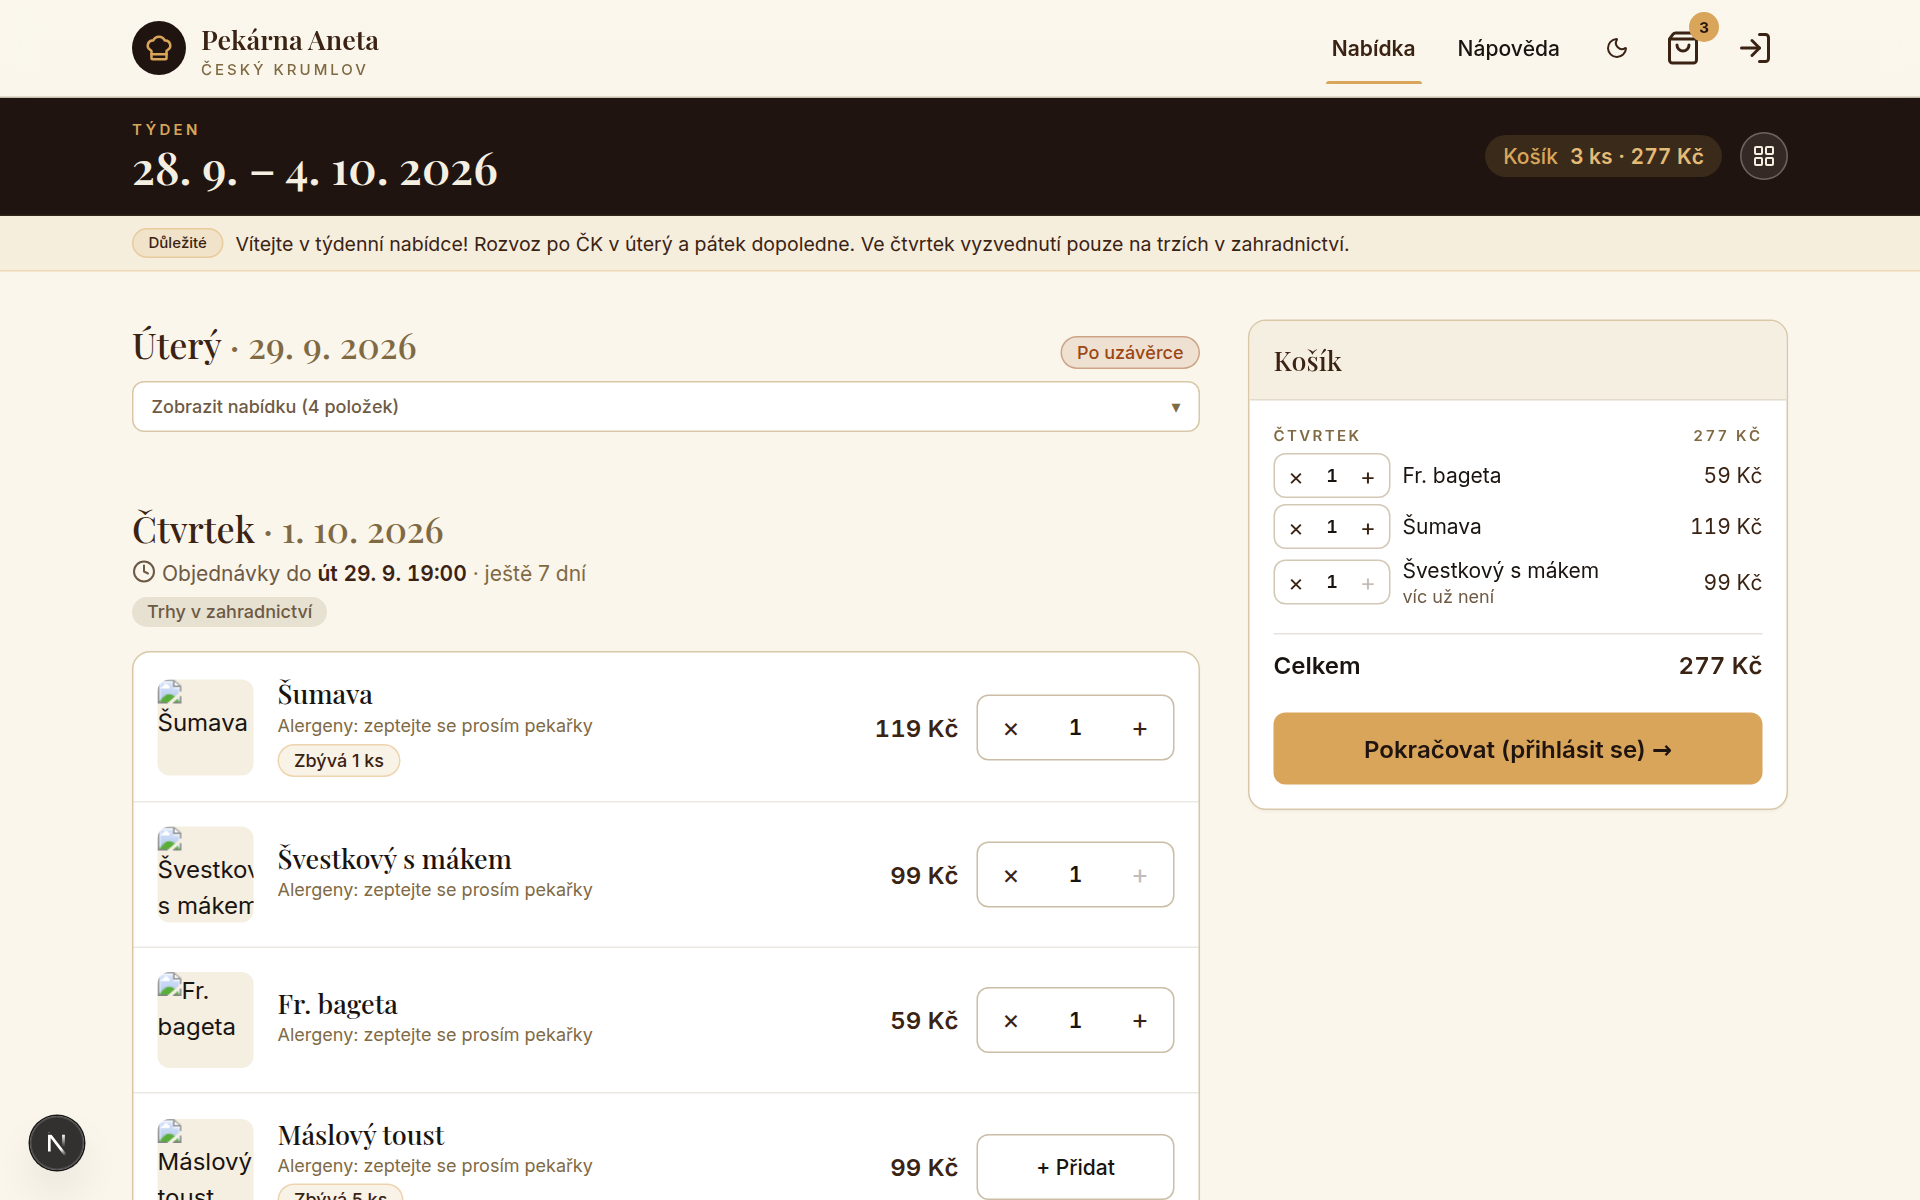
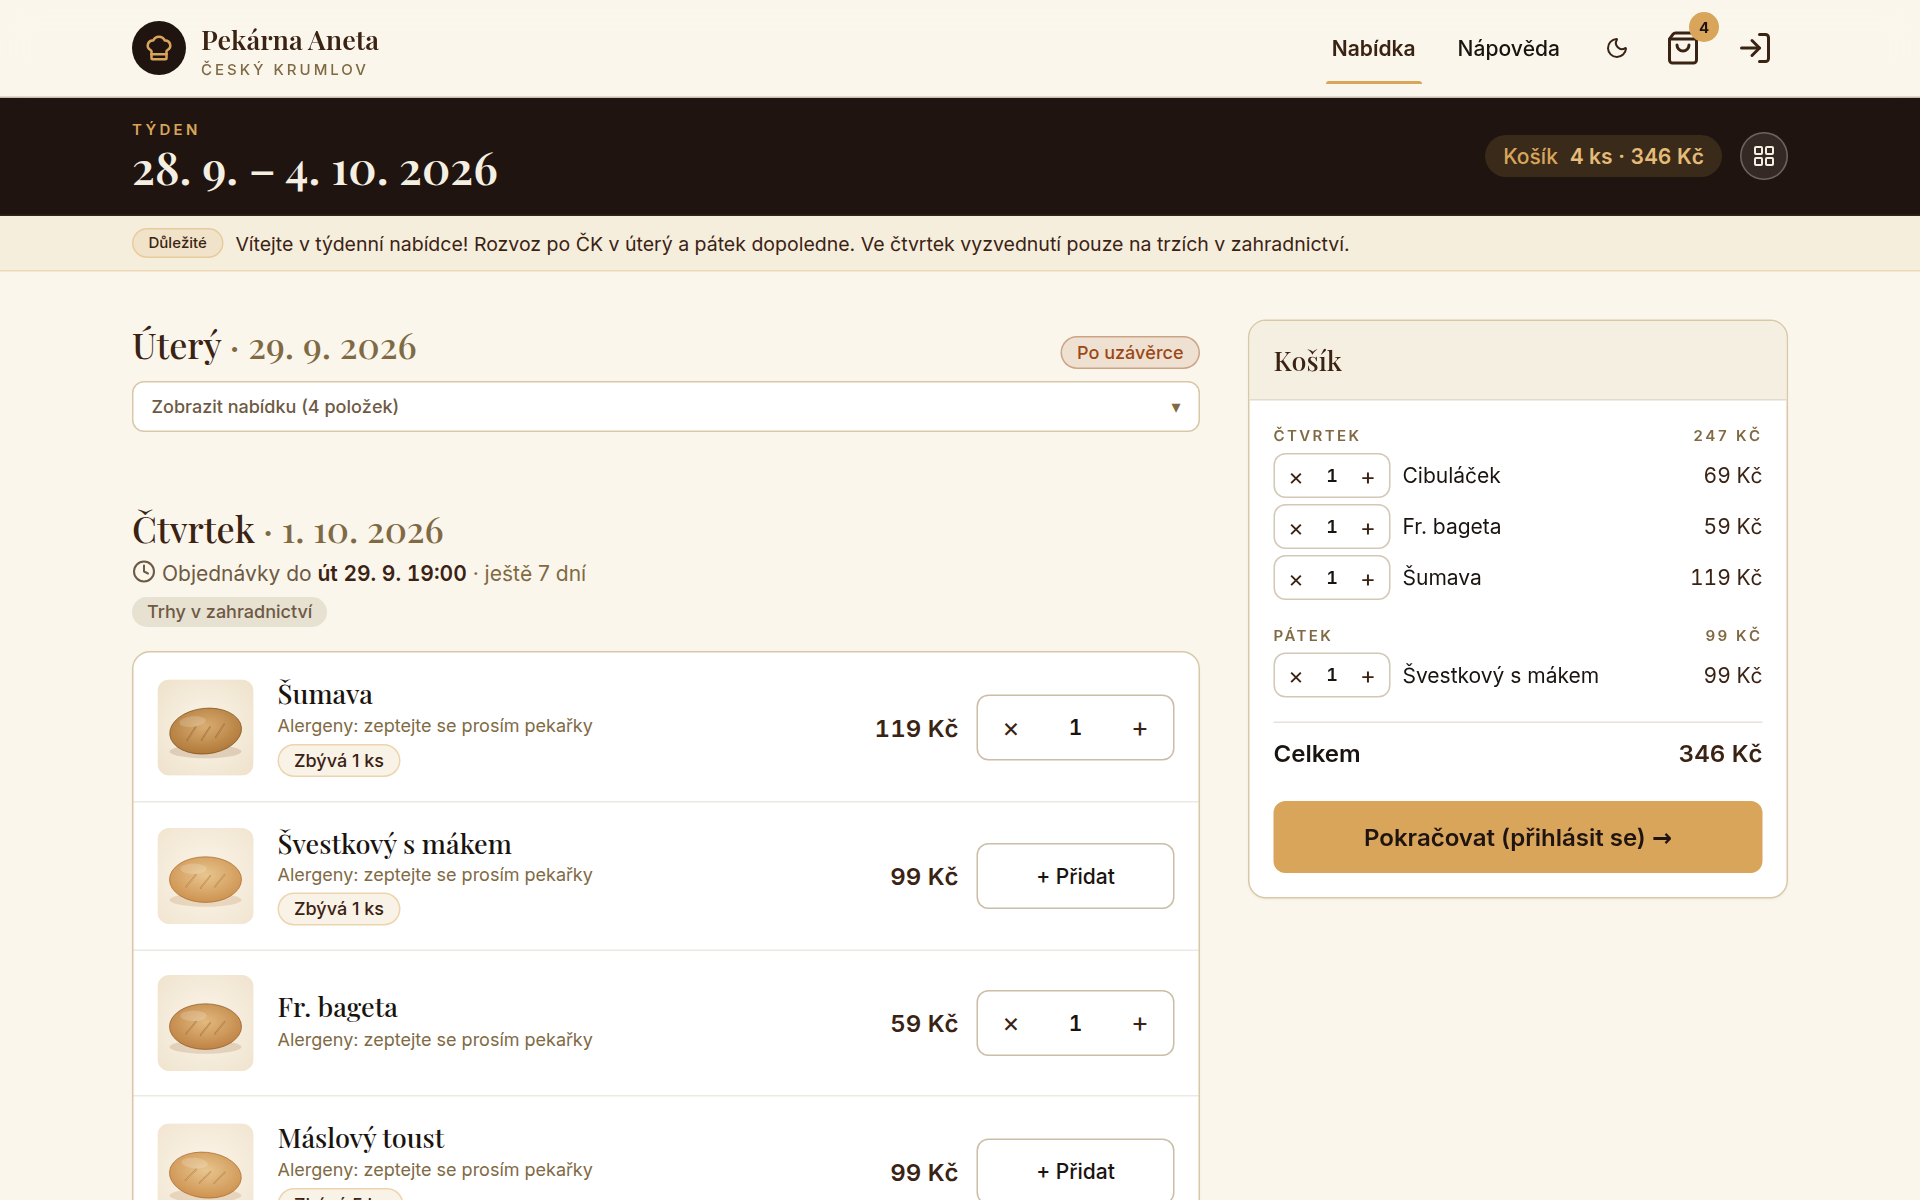
Portfolio: Letify screenshots (WebP)
Claude-Session: https://claude.ai/code/session_01RaNZvChbJumPsyXGRwBJQk

diff --git a/index.html b/index.html
@@ -352,16 +352,17 @@
           <button class="project__cover" type="button" aria-label="Otevřít galerii: Letify">
             <div class="project__bar"><span></span><span></span><span></span><em>letify.us</em></div>
             <div class="project__shot project__shot--desktop">
-              <img src="images/letify/01-home.png" alt="Letify: Úvodní stránka" loading="lazy">
+              <img src="images/letify/01-home.webp" alt="Letify: Úvodní stránka" loading="lazy">
             </div>
-            <span class="project__count"><svg viewBox="0 0 24 24" fill="none" stroke="currentColor" stroke-width="2"><rect x="3" y="3" width="18" height="18" rx="2"/><circle cx="8.5" cy="8.5" r="1.5"/><path d="M21 15l-5-5L5 21"/></svg>5 snímků</span>
+            <span class="project__count"><svg viewBox="0 0 24 24" fill="none" stroke="currentColor" stroke-width="2"><rect x="3" y="3" width="18" height="18" rx="2"/><circle cx="8.5" cy="8.5" r="1.5"/><path d="M21 15l-5-5L5 21"/></svg>6 snímků</span>
           </button>
           <ul class="project__gallery" hidden>
-              <li data-src="images/letify/01-home.png">Úvodní stránka</li>
-              <li data-src="images/letify/02-owners.png">Pro majitele nemovitostí</li>
-              <li data-src="images/letify/03-home-en.png">Anglická verze</li>
-              <li data-src="images/letify/04-admin-leads.png">Interní seznam poptávek</li>
-              <li data-src="images/letify/05-mobile-home.png">Web v mobilu</li>
+              <li data-src="images/letify/01-home.webp">Úvodní stránka</li>
+              <li data-src="images/letify/06-home-gallery.webp">Fotogalerie a výzva k akci</li>
+              <li data-src="images/letify/02-owners.webp">Formulář pro majitele nemovitostí</li>
+              <li data-src="images/letify/03-home-en.webp">Anglická verze</li>
+              <li data-src="images/letify/04-admin-leads.webp">Interní seznam poptávek</li>
+              <li data-src="images/letify/05-mobile-home.webp">Web v mobilu</li>
           </ul>
           <div class="project__body">
             <div class="project__meta">
